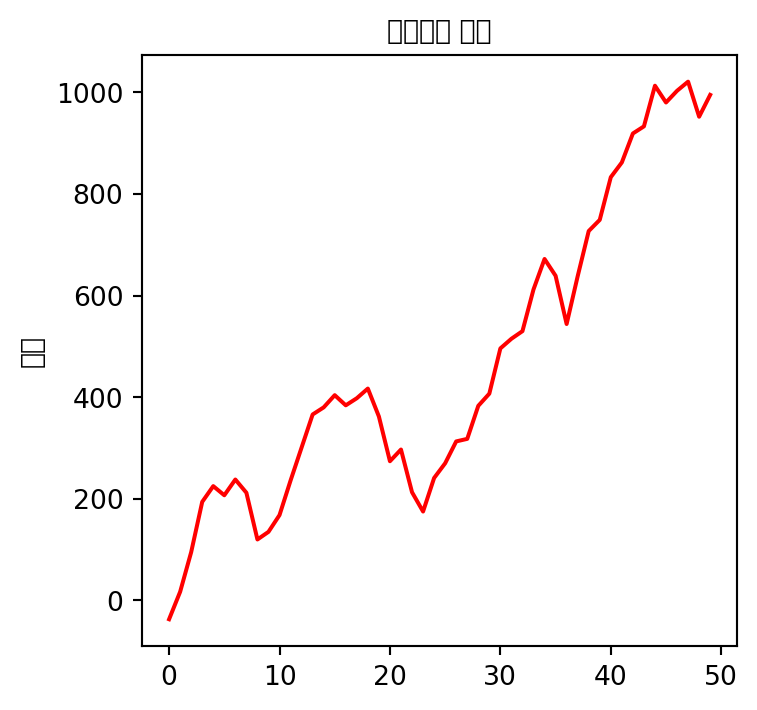
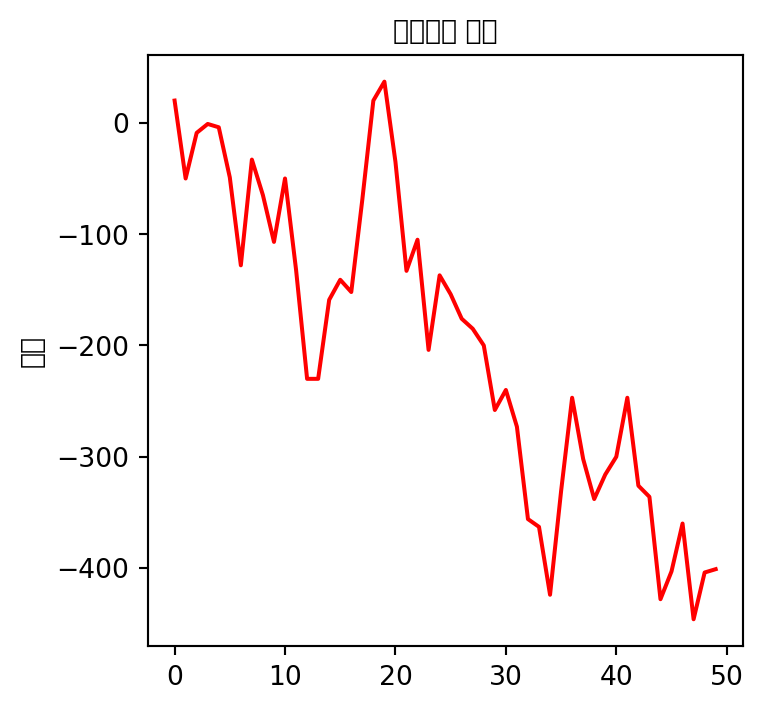
fix

diff --git a/docs/posts/computer-tool/2022-12-04-matplotlib-korfont-redux.html b/docs/posts/computer-tool/2022-12-04-matplotlib-korfont-redux.html
@@ -234,7 +234,6 @@ pre > code.sourceCode > span > a:first-child::before { text-decoration: underlin
 <h2 class="anchored" data-anchor-id="matplotlib과-한글의-라벨링">matplotlib과 한글의 라벨링</h2>
 <p>matplotlib은 표준적인 파이썬 시각화 패키지다. 아쉽게도 이 녀석이 한글과 별로 안 친하다. 그래픽 렌더링 엔진에 한글 폰트가 빠져 있어서 이를 추가로 인식을 시켜야 결과물 내에서 한글 라벨을 쓸 수 있다. 가장 간단한 해결 방법은 나눔고딕 폰트를 쓸 수 있게 해주는 패키지 <a href="https://github.com/seongminp/koreanize-matplotlib">koreanize-matplotlib</a>를 쓰는 것이다.</p>
 <p>먼저 문제부터 살펴보자. 테스트를 위해서 아래 코드에 간단한 함수 <code>draw_sample(fontprop)</code>를 작성했다. 인자 <code>fontprop</code>은 그래프 요소에 적용될 폰트 특성이다. 값이 없으면 전역적으로 설정된 내용에 따른다.</p>
-<div id="2d11b953" class="cell" data-execution_count="1">
 <details open="" class="code-fold">
 <summary>Code</summary>
 <div class="sourceCode cell-code" id="cb1"><pre class="sourceCode numberSource python number-lines code-with-copy"><code class="sourceCode python"><span id="cb1-1"><a href="#cb1-1"></a><span class="im">import</span> matplotlib <span class="im">as</span> mpl</span>
@@ -243,7 +242,7 @@ pre > code.sourceCode > span > a:first-child::before { text-decoration: underlin
 <span id="cb1-4"><a href="#cb1-4"></a><span class="im">import</span> numpy <span class="im">as</span> np</span>
 <span id="cb1-5"><a href="#cb1-5"></a></span>
 <span id="cb1-6"><a href="#cb1-6"></a><span class="co"># 그릴 데이터 생성 </span></span>
-<span id="cb1-7"><a href="#cb1-7"></a><span class="kw">def</span> draw_sample(fontprop<span class="op">=</span><span class="va">None</span>): </span>
+<span id="cb1-7"><a href="#cb1-7"></a><span class="kw">def</span> draw_sample(fontprop<span class="op">=</span><span class="va">None</span>):</span>
 <span id="cb1-8"><a href="#cb1-8"></a>    plt.rcParams[<span class="st">'figure.figsize'</span>] <span class="op">=</span> [<span class="dv">4</span>, <span class="dv">4</span>]</span>
 <span id="cb1-9"><a href="#cb1-9"></a>    data <span class="op">=</span> np.random.randint(<span class="op">-</span><span class="dv">100</span>, <span class="dv">100</span>, <span class="dv">50</span>).cumsum()</span>
 <span id="cb1-10"><a href="#cb1-10"></a>    plt.plot(<span class="bu">range</span>(<span class="dv">50</span>), data, <span class="st">'r'</span>)</span>
@@ -267,21 +266,38 @@ pre > code.sourceCode > span > a:first-child::before { text-decoration: underlin
 /Users/anari/GitHub/lostineconomics_quarto/.venv/lib/python3.11/site-packages/IPython/core/pylabtools.py:152: UserWarning: Glyph 51060 (\N{HANGUL SYLLABLE I}) missing from current font.
   fig.canvas.print_figure(bytes_io, **kw)</code></pre>
 </div>
-<div class="cell-output cell-output-display">
-<p><a href="2022-12-04-matplotlib-korfont-redux_files/figure-html/cell-2-output-2.png" class="lightbox" data-gallery="quarto-lightbox-gallery-1"><img src="2022-12-04-matplotlib-korfont-redux_files/figure-html/cell-2-output-2.png" width="379" height="355"></a></p>
+<div id="507f2919" class="cell quarto-layout-panel" data-execution_count="1" data-layout="[[-0.5,1,-0.5]]">
+<div class="quarto-layout-row quarto-layout-valign-top">
+<div class="quarto-figure-spacer quarto-layout-cell" style="flex-basis: 25.0%;justify-content: center;">
+<p>&nbsp;</p>
+</div>
+<div class="quarto-layout-cell" style="flex-basis: 50.0%;justify-content: center;">
+<p><a href="2022-12-04-matplotlib-korfont-redux_files/figure-html/cell-2-output-2.png" class="lightbox" data-gallery="quarto-lightbox-gallery-1"><img src="2022-12-04-matplotlib-korfont-redux_files/figure-html/cell-2-output-2.png" width="381" height="355"></a></p>
+</div>
+<div class="quarto-figure-spacer quarto-layout-cell" style="flex-basis: 25.0%;justify-content: center;">
+<p>&nbsp;</p>
+</div>
 </div>
 </div>
 <p>위 결과에서 보듯이 한글 폰트가 없으니 출력이 제대로 되지 않는다. 이제 <code>koreanize-matplotlib</code> 패키지를 설치하고 import 후 실행해보자</p>
 <div class="sourceCode" id="cb3"><pre class="sourceCode numberSource bash number-lines code-with-copy"><code class="sourceCode bash"><span id="cb3-1"><a href="#cb3-1"></a><span class="ex">$</span> pip install koreanize-matplotlib </span></code><button title="Copy to Clipboard" class="code-copy-button"><i class="bi"></i></button></pre></div>
 <p>위에서 보다시피, <code>koreanize-matplotlib</code>는 PyPI에만 있다. conda와 같은 다른 저장소를 통해서는 설치할 수 없다는 것은 유의하시라.</p>
-<div id="caae8cbb" class="cell" data-execution_count="2">
 <details open="" class="code-fold">
 <summary>Code</summary>
 <div class="sourceCode cell-code" id="cb4"><pre class="sourceCode numberSource python number-lines code-with-copy"><code class="sourceCode python"><span id="cb4-1"><a href="#cb4-1"></a><span class="im">import</span> koreanize_matplotlib</span>
 <span id="cb4-2"><a href="#cb4-2"></a>draw_sample()</span></code><button title="Copy to Clipboard" class="code-copy-button"><i class="bi"></i></button></pre></div>
 </details>
-<div class="cell-output cell-output-display">
-<p><a href="2022-12-04-matplotlib-korfont-redux_files/figure-html/cell-3-output-1.png" class="lightbox" data-gallery="quarto-lightbox-gallery-2"><img src="2022-12-04-matplotlib-korfont-redux_files/figure-html/cell-3-output-1.png" width="374" height="356"></a></p>
+<div id="15752bf4" class="cell quarto-layout-panel" data-execution_count="2" data-layout="[[-0.5,1,-0.5]]">
+<div class="quarto-layout-row quarto-layout-valign-top">
+<div class="quarto-figure-spacer quarto-layout-cell" style="flex-basis: 25.0%;justify-content: center;">
+<p>&nbsp;</p>
+</div>
+<div class="quarto-layout-cell" style="flex-basis: 50.0%;justify-content: center;">
+<p><a href="2022-12-04-matplotlib-korfont-redux_files/figure-html/cell-3-output-1.png" class="lightbox" data-gallery="quarto-lightbox-gallery-2"><img src="2022-12-04-matplotlib-korfont-redux_files/figure-html/cell-3-output-1.png" width="377" height="356"></a></p>
+</div>
+<div class="quarto-figure-spacer quarto-layout-cell" style="flex-basis: 25.0%;justify-content: center;">
+<p>&nbsp;</p>
+</div>
 </div>
 </div>
 <p><code>koreanize-matplotlib</code> 패키지는 나눔고딕 폰트를 자동으로 설치하고 이를 폰트로 잡아 준다. 위에 보는 것처럼 한글 출력에 문제가 없다.</p>
@@ -293,7 +309,7 @@ pre > code.sourceCode > span > a:first-child::before { text-decoration: underlin
 <section id="노트북에서-한글-폰트-가져오기" class="level2">
 <h2 class="anchored" data-anchor-id="노트북에서-한글-폰트-가져오기">노트북에서 한글 폰트 가져오기</h2>
 <p>앞서 링크에서 소개한 폰트 추가 방법은 시스템에 폰트를 먼저 깔고 해당 폰트를 matplotlib에 등록하는 방법이다. pyodide에서 활용할 수 있는 다른 방법은 없을까? 아래 소개할 방법은 ttf 폰트 파일을 바로 matplotlib이 쓸 수 있게 해주는 방법이다.</p>
-<div id="3d00dbd8" class="cell" data-execution_count="3">
+<div id="d51c4a91" class="cell" data-execution_count="3">
 <details open="" class="code-fold">
 <summary>Code</summary>
 <div class="sourceCode cell-code" id="cb5"><pre class="sourceCode numberSource python number-lines code-with-copy"><code class="sourceCode python"><span id="cb5-1"><a href="#cb5-1"></a>font_path <span class="op">=</span> <span class="st">'./font/D2Coding v.1.3.2 ligature Nerd Font Complete.ttf'</span> <span class="co"># 폰트 파일의 위치에 따라서 조정</span></span>
@@ -324,13 +340,13 @@ Code Tips
 </div>
 </div>
 <p>위 방법의 장점은 폰트의 위치를 가리지 않는다는 것이다. 적당한 위치에 두고 matplotlib이 쓸 수 있도록 폰트를 인식시키는 방식이다. 폰트가 잘 인식되었는지 확인해보자.</p>
-<div id="0e573f34" class="cell" data-execution_count="4">
+<div id="b07ce785" class="cell" data-execution_count="4">
 <details open="" class="code-fold">
 <summary>Code</summary>
 <div class="sourceCode cell-code" id="cb6"><pre class="sourceCode numberSource python number-lines code-with-copy"><code class="sourceCode python"><span id="cb6-1"><a href="#cb6-1"></a><span class="bu">print</span>([(f.name, f.fname) <span class="cf">for</span> f <span class="kw">in</span> mpl.font_manager.fontManager.ttflist <span class="cf">if</span> (<span class="st">'D2'</span> <span class="kw">in</span> f.name) <span class="op">|</span> (<span class="st">'Nanum'</span> <span class="kw">in</span> f.name) ])</span></code><button title="Copy to Clipboard" class="code-copy-button"><i class="bi"></i></button></pre></div>
 </details>
 <div class="cell-output cell-output-stdout">
-<pre><code>[('D2 Coding Nerd', './font/D2Coding v.1.3.2 ligature Nerd Font Complete.ttf'), ('Nanum Gothic', '/System/Library/AssetsV2/com_apple_MobileAsset_Font7/bad9b4bf17cf1669dde54184ba4431c22dcad27b.asset/AssetData/NanumGothic.ttc'), ('D2Codingligature Nerd Font', '/Users/anari/Library/Fonts/D2Coding v.1.3.2 ligature Nerd Font Complete.ttf'), ('Nanum Myeongjo', '/System/Library/AssetsV2/com_apple_MobileAsset_Font7/70816a43827731d40efe234b94feba96db91024f.asset/AssetData/NanumMyeongjo.ttc'), ('D2Coding Nerd Font', '/Users/anari/Library/Fonts/D2Coding v.1.3.2 Nerd Font Complete.ttf'), ('Nanum Brush Script', '/System/Library/AssetsV2/com_apple_MobileAsset_Font7/6f4c91728bb824d6960725ec479c355eab7eeba8.asset/AssetData/NanumScript.ttc'), ('NanumGothic', '/Users/anari/GitHub/lostineconomics_quarto/.venv/lib/python3.11/site-packages/koreanize_matplotlib/fonts/NanumGothicExtraBold.ttf'), ('NanumGothic', '/Users/anari/GitHub/lostineconomics_quarto/.venv/lib/python3.11/site-packages/koreanize_matplotlib/fonts/NanumGothicLight.ttf'), ('NanumGothic', '/Users/anari/GitHub/lostineconomics_quarto/.venv/lib/python3.11/site-packages/koreanize_matplotlib/fonts/NanumGothicBold.ttf'), ('NanumGothic', '/Users/anari/GitHub/lostineconomics_quarto/.venv/lib/python3.11/site-packages/koreanize_matplotlib/fonts/NanumGothic.ttf')]</code></pre>
+<pre><code>[('D2 Coding Nerd', './font/D2Coding v.1.3.2 ligature Nerd Font Complete.ttf'), ('Nanum Gothic', '/System/Library/AssetsV2/com_apple_MobileAsset_Font7/bad9b4bf17cf1669dde54184ba4431c22dcad27b.asset/AssetData/NanumGothic.ttc'), ('D2Codingligature Nerd Font', '/Users/anari/Library/Fonts/D2Coding v.1.3.2 ligature Nerd Font Complete.ttf'), ('Nanum Myeongjo', '/System/Library/AssetsV2/com_apple_MobileAsset_Font7/70816a43827731d40efe234b94feba96db91024f.asset/AssetData/NanumMyeongjo.ttc'), ('D2Coding Nerd Font', '/Users/anari/Library/Fonts/D2Coding v.1.3.2 Nerd Font Complete.ttf'), ('Nanum Brush Script', '/System/Library/AssetsV2/com_apple_MobileAsset_Font7/6f4c91728bb824d6960725ec479c355eab7eeba8.asset/AssetData/NanumScript.ttc'), ('NanumGothic', '/Users/anari/GitHub/lostineconomics_quarto/.venv/lib/python3.11/site-packages/koreanize_matplotlib/fonts/NanumGothicExtraBold.ttf'), ('NanumGothic', '/Users/anari/GitHub/lostineconomics_quarto/.venv/lib/python3.11/site-packages/koreanize_matplotlib/fonts/NanumGothic.ttf'), ('NanumGothic', '/Users/anari/GitHub/lostineconomics_quarto/.venv/lib/python3.11/site-packages/koreanize_matplotlib/fonts/NanumGothicBold.ttf'), ('NanumGothic', '/Users/anari/GitHub/lostineconomics_quarto/.venv/lib/python3.11/site-packages/koreanize_matplotlib/fonts/NanumGothicLight.ttf')]</code></pre>
 </div>
 </div>
 </section>
@@ -340,21 +356,28 @@ Code Tips
 <section id="호출해서-활용" class="level3">
 <h3 class="anchored" data-anchor-id="호출해서-활용">호출해서 활용</h3>
 <p>아래 결과에서 보듯이, fontprop을 통해 지정된 폰트 양식을 그래프 요소에 적용해보자.</p>
-<div id="81006847" class="cell" data-execution_count="5">
 <details open="" class="code-fold">
 <summary>Code</summary>
 <div class="sourceCode cell-code" id="cb8"><pre class="sourceCode numberSource python number-lines code-with-copy"><code class="sourceCode python"><span id="cb8-1"><a href="#cb8-1"></a>fontprop <span class="op">=</span> fm.FontProperties(fname<span class="op">=</span>font_path, size<span class="op">=</span><span class="dv">13</span>)</span>
 <span id="cb8-2"><a href="#cb8-2"></a>draw_sample(fontprop)</span></code><button title="Copy to Clipboard" class="code-copy-button"><i class="bi"></i></button></pre></div>
 </details>
-<div class="cell-output cell-output-display">
+<div id="dfeed4f3" class="cell quarto-layout-panel" data-execution_count="5" data-layout="[[-0.5,1,-0.5]]">
+<div class="quarto-layout-row quarto-layout-valign-top">
+<div class="quarto-figure-spacer quarto-layout-cell" style="flex-basis: 25.0%;justify-content: center;">
+<p>&nbsp;</p>
+</div>
+<div class="quarto-layout-cell" style="flex-basis: 50.0%;justify-content: center;">
 <p><a href="2022-12-04-matplotlib-korfont-redux_files/figure-html/cell-6-output-1.png" class="lightbox" data-gallery="quarto-lightbox-gallery-3"><img src="2022-12-04-matplotlib-korfont-redux_files/figure-html/cell-6-output-1.png" width="377" height="359"></a></p>
+</div>
+<div class="quarto-figure-spacer quarto-layout-cell" style="flex-basis: 25.0%;justify-content: center;">
+<p>&nbsp;</p>
+</div>
 </div>
 </div>
 </section>
 <section id="전역으로-활용" class="level3">
 <h3 class="anchored" data-anchor-id="전역으로-활용">전역으로 활용</h3>
 <p>폰트 속성을 전역으로 지정하고 그래프를 그려보자.</p>
-<div id="4d95e3c0" class="cell" data-execution_count="6">
 <details open="" class="code-fold">
 <summary>Code</summary>
 <div class="sourceCode cell-code" id="cb9"><pre class="sourceCode numberSource python number-lines code-with-copy"><code class="sourceCode python"><span id="cb9-1"><a href="#cb9-1"></a><span class="co"># rcParams 설정</span></span>
@@ -368,8 +391,17 @@ Code Tips
 <span id="cb9-9"><a href="#cb9-9"></a><span class="co"># 그림 그리기 </span></span>
 <span id="cb9-10"><a href="#cb9-10"></a>draw_sample()</span></code><button title="Copy to Clipboard" class="code-copy-button"><i class="bi"></i></button></pre></div>
 </details>
-<div class="cell-output cell-output-display">
+<div id="bdda0a78" class="cell quarto-layout-panel" data-execution_count="6" data-layout="[[-0.5,1,-0.5]]">
+<div class="quarto-layout-row quarto-layout-valign-top">
+<div class="quarto-figure-spacer quarto-layout-cell" style="flex-basis: 25.0%;justify-content: center;">
+<p>&nbsp;</p>
+</div>
+<div class="quarto-layout-cell" style="flex-basis: 50.0%;justify-content: center;">
 <p><a href="2022-12-04-matplotlib-korfont-redux_files/figure-html/cell-7-output-1.png" class="lightbox" data-gallery="quarto-lightbox-gallery-4"><img src="2022-12-04-matplotlib-korfont-redux_files/figure-html/cell-7-output-1.png" width="382" height="362"></a></p>
+</div>
+<div class="quarto-figure-spacer quarto-layout-cell" style="flex-basis: 25.0%;justify-content: center;">
+<p>&nbsp;</p>
+</div>
 </div>
 </div>
 
@@ -913,7 +945,7 @@ window.document.addEventListener("DOMContentLoaded", function (event) {
 });
 </script>
 </div> <!-- /content -->
-<script>var lightboxQuarto = GLightbox({"openEffect":"zoom","descPosition":"bottom","selector":".lightbox","closeEffect":"zoom","loop":false});</script>
+<script>var lightboxQuarto = GLightbox({"descPosition":"bottom","selector":".lightbox","closeEffect":"zoom","openEffect":"zoom","loop":false});</script>
 
 
 

diff --git a/docs/index.html b/docs/index.html
@@ -414,7 +414,7 @@ JS HUHH
 </a>
 </div>
 </div>
-<div class="quarto-post image-right" data-index="7" data-categories="math-simple" data-listing-date-sort="1687705200000" data-listing-file-modified-sort="1701003041188" data-listing-date-modified-sort="NaN" data-listing-reading-time-sort="9" data-listing-word-count-sort="1656">
+<div class="quarto-post image-right" data-index="7" data-categories="math-simple" data-listing-date-sort="1687705200000" data-listing-file-modified-sort="1701003041188" data-listing-date-modified-sort="NaN" data-listing-reading-time-sort="9" data-listing-word-count-sort="1660">
 <div class="thumbnail">
 <p><a href="./posts/math-simple/2023-06-26-imply.html"></a></p><a href="./posts/math-simple/2023-06-26-imply.html">
 <p><img src="./posts/math-simple/images/cat-proof.webp" class="thumbnail-image"></p>
@@ -648,7 +648,7 @@ JS HUHH
 </a>
 </div>
 </div>
-<div class="quarto-post image-right" data-index="14" data-categories="computer-tool" data-listing-date-sort="1670079600000" data-listing-file-modified-sort="1701079939363" data-listing-date-modified-sort="NaN" data-listing-reading-time-sort="3" data-listing-word-count-sort="453">
+<div class="quarto-post image-right" data-index="14" data-categories="computer-tool" data-listing-date-sort="1670079600000" data-listing-file-modified-sort="1701080901143" data-listing-date-modified-sort="NaN" data-listing-reading-time-sort="3" data-listing-word-count-sort="478">
 <div class="thumbnail">
 <p><a href="./posts/computer-tool/2022-12-04-matplotlib-korfont-redux.html"></a></p><a href="./posts/computer-tool/2022-12-04-matplotlib-korfont-redux.html">
 <p><img src="./posts/computer-tool/images/matplotlib.jfif" class="thumbnail-image"></p>
